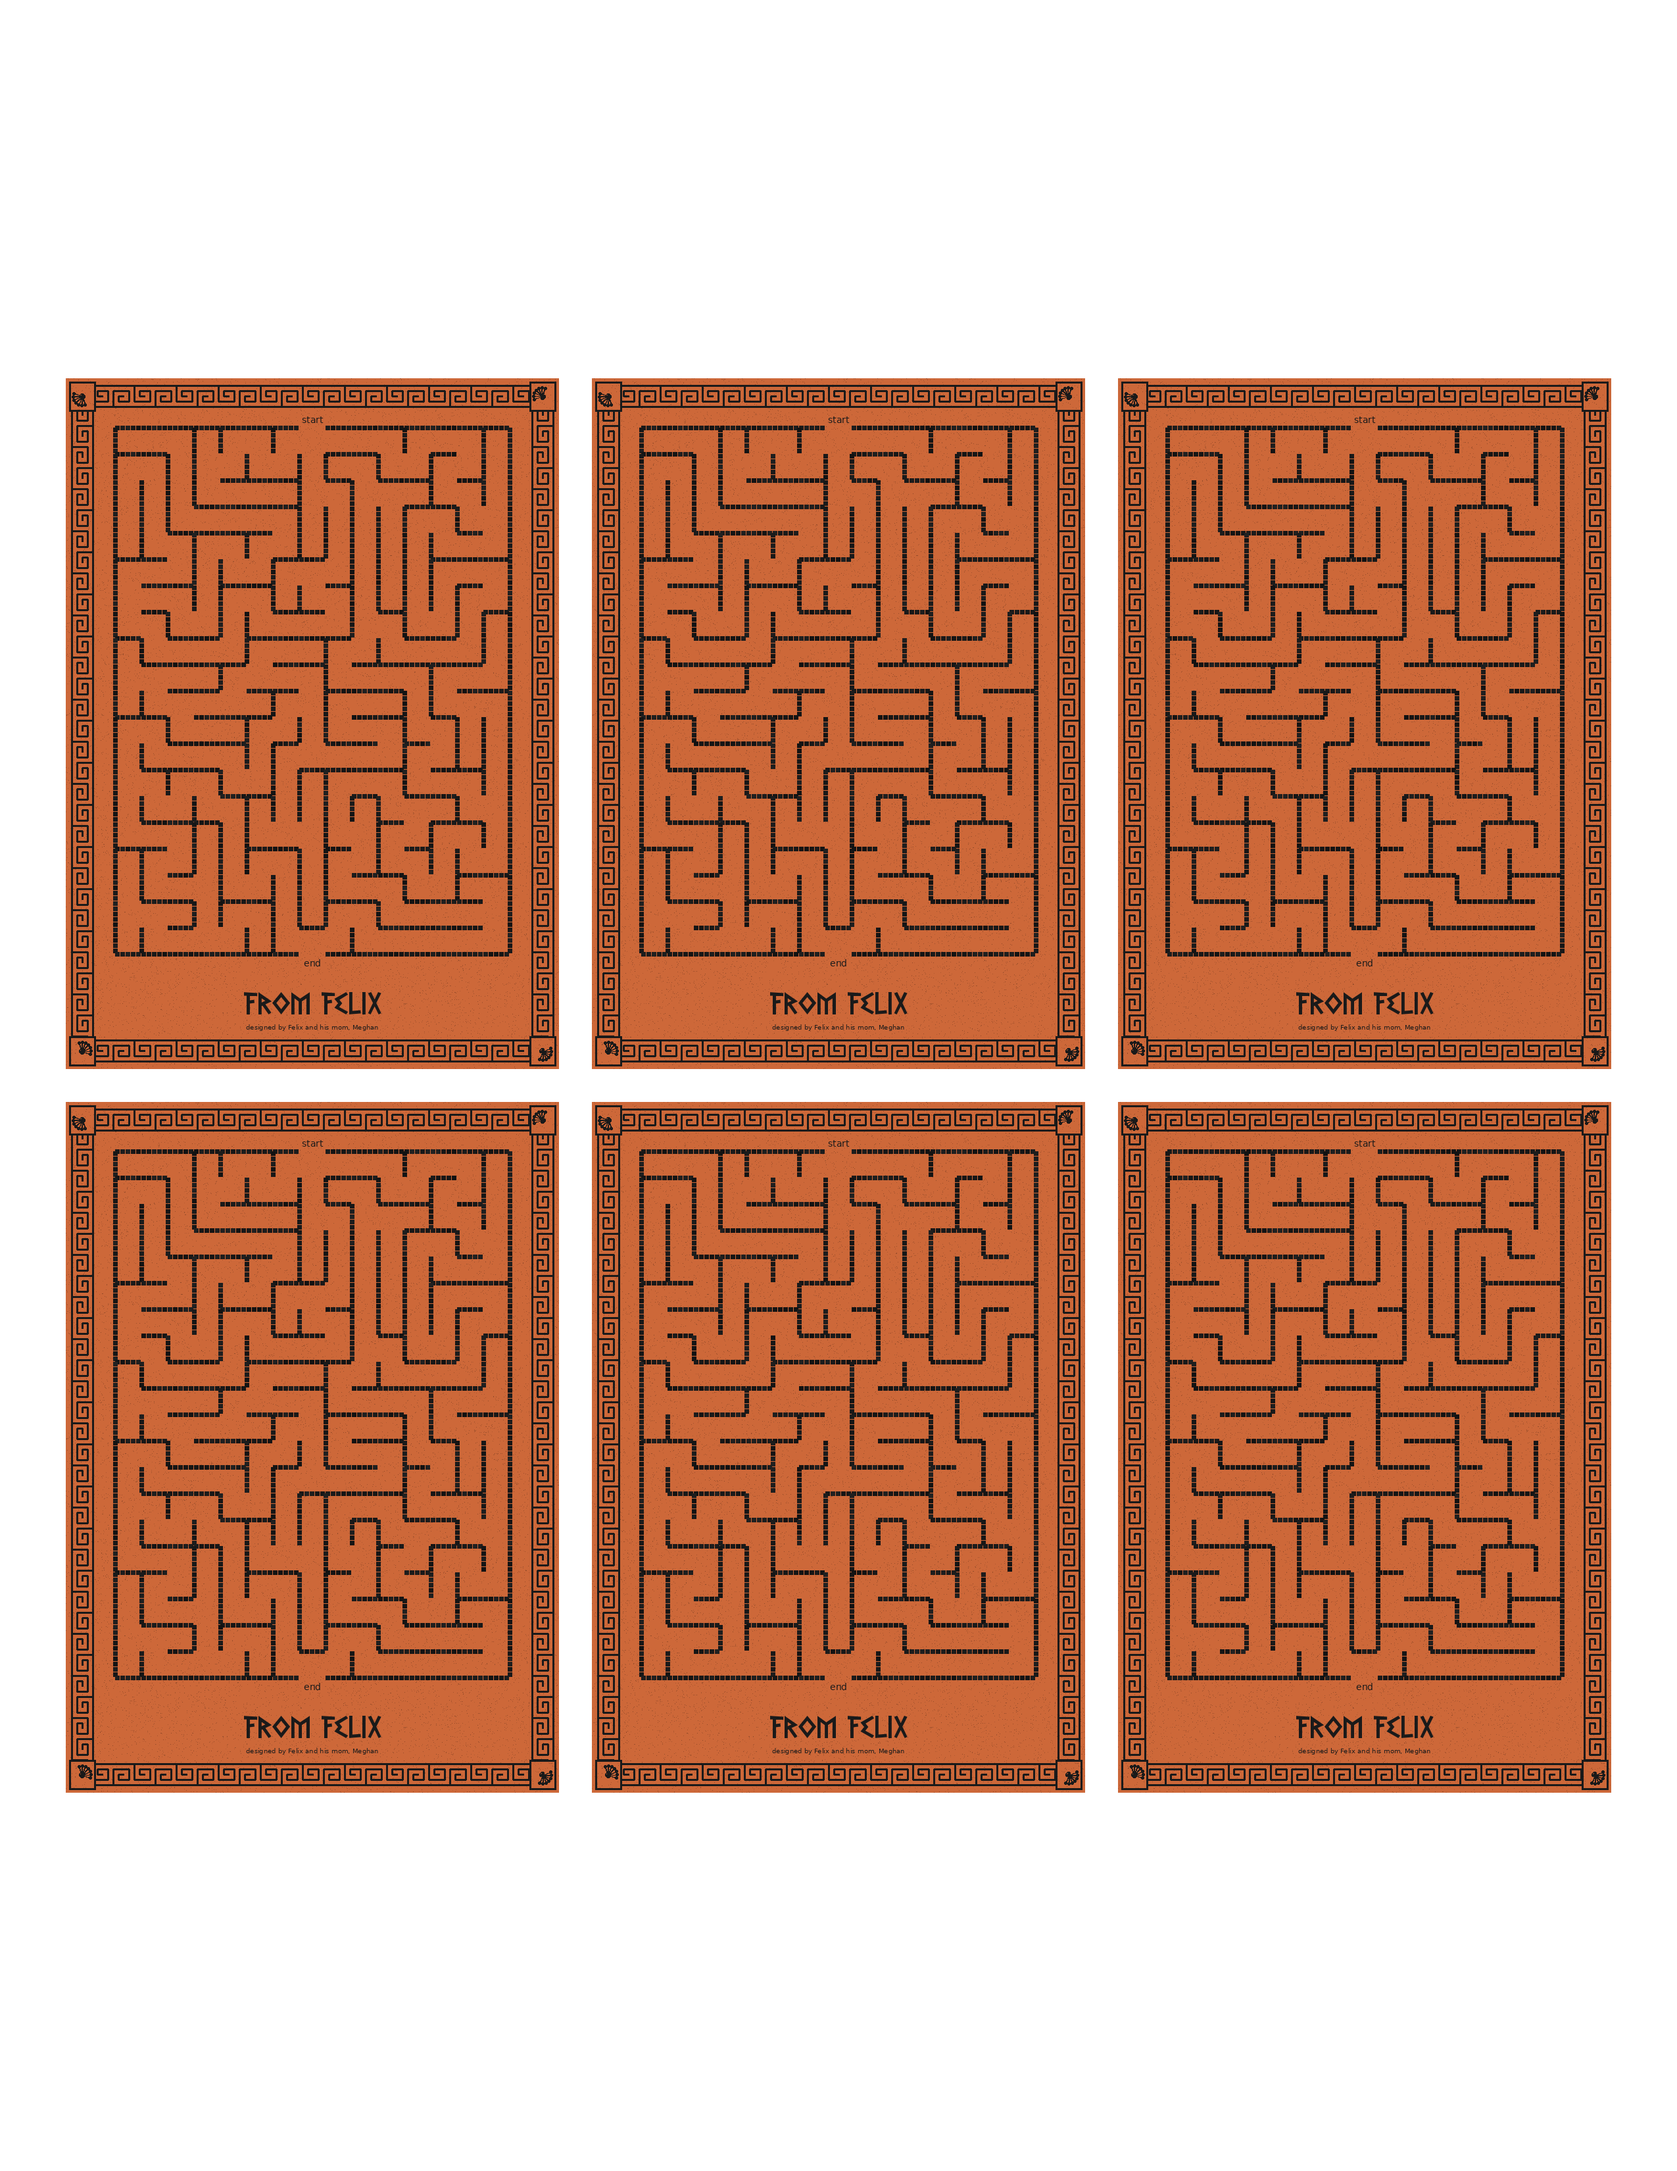
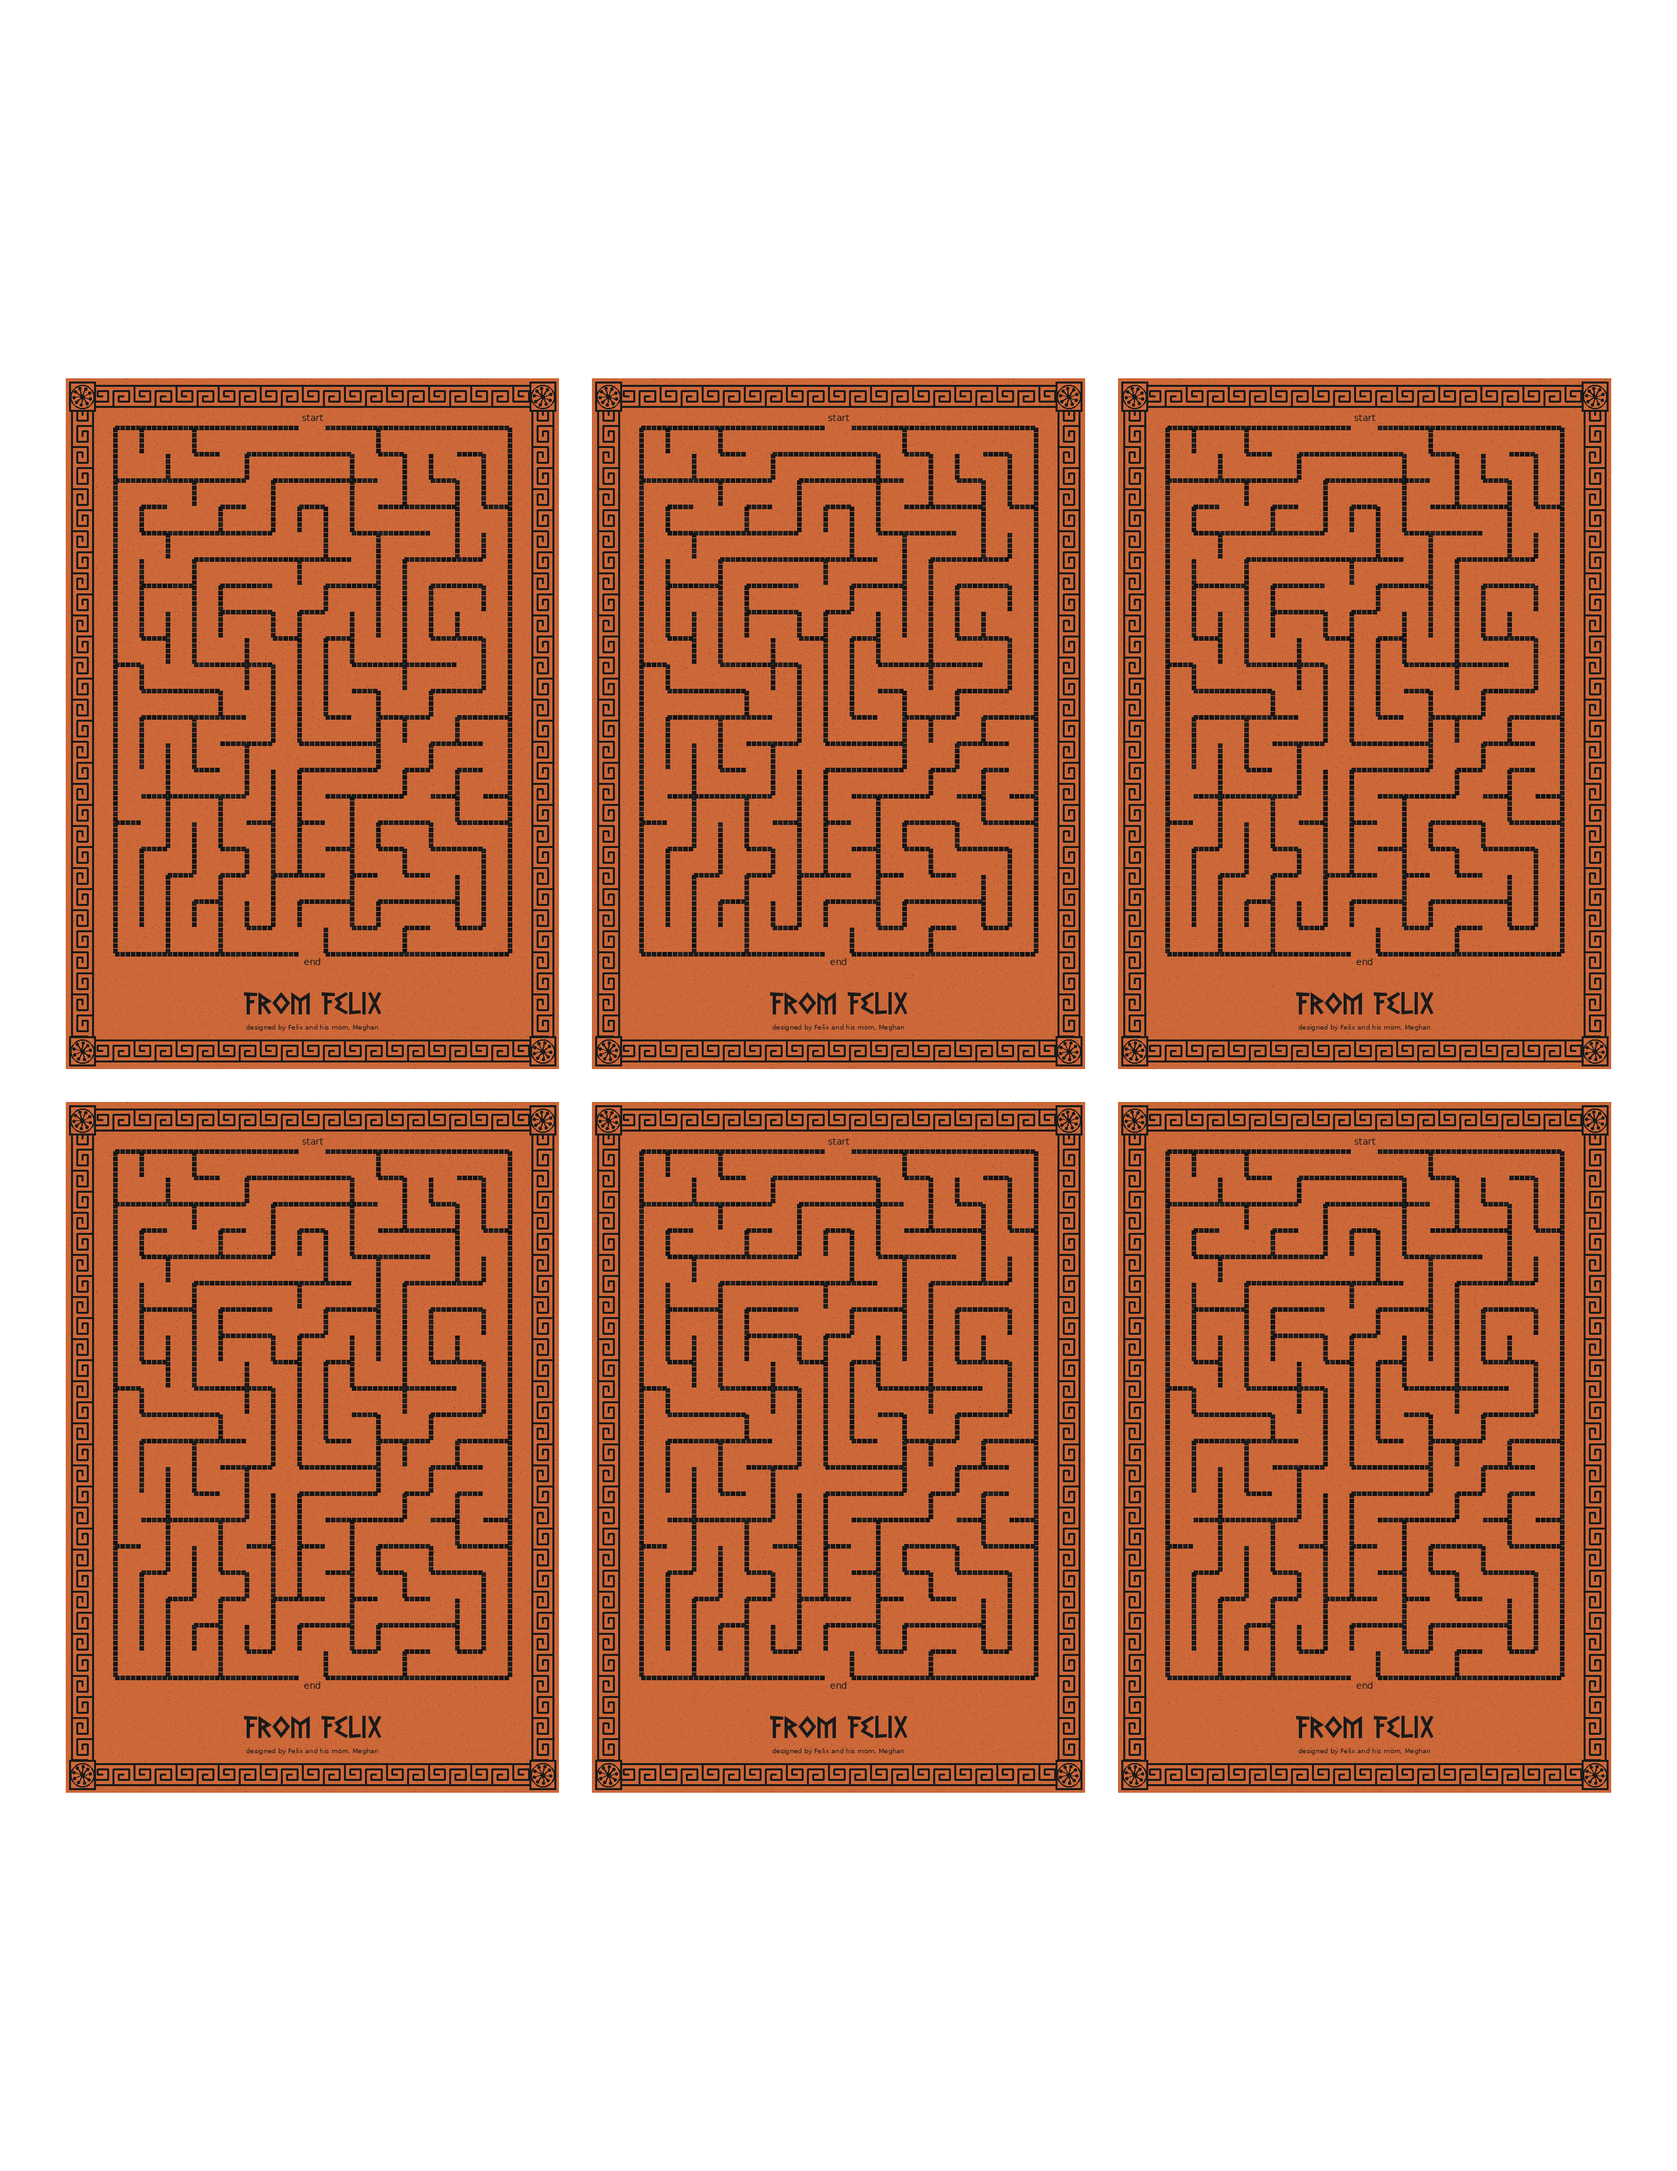
Make palmettes circular and fix label centering
- Changed palmettes from fan-shaped to full circular motifs with 9 petals
- Fixed start/end label centering using PIL anchor="mt" for precise alignment

diff --git a/src/greek_design_system.py b/src/greek_design_system.py
@@ -93,41 +93,33 @@ def draw_palmette(
     fg_color: str = None,
     bg_color: str = None
 ):
-    """Draw a Greek palmette (stylized fan of petals) at the given center.
+    """Draw a circular Greek palmette (stylized fan of petals) at the given center.
 
     Args:
         cx, cy: Center position
-        rotation: Angle in degrees (0=right, 90=down, 180=left, 270=up)
-                  Petals fan outward in this direction
-        size: Overall size of the palmette
+        rotation: Angle in degrees - direction the central petal points
+        size: Overall diameter of the circular palmette
     """
     import math
 
     fg = fg_color or PALETTE.black
+    bg = bg_color or PALETTE.terracotta
 
-    # Palmette has 7 petals in a fan arrangement
-    num_petals = 7
-    petal_length = size * 0.38
-    base_radius = size * 0.12
+    radius = size // 2
 
-    # Draw base arc opposite to petal direction
-    base_x1 = cx - base_radius
-    base_y1 = cy - base_radius
-    base_x2 = cx + base_radius
-    base_y2 = cy + base_radius
+    # Draw filled circle background
+    draw.ellipse([cx - radius, cy - radius, cx + radius, cy + radius],
+                 fill=bg, outline=fg, width=2)
 
-    # Arc is drawn on the opposite side of the petals
-    arc_start = rotation + 90
-    arc_end = rotation + 270
-    draw.arc([base_x1, base_y1, base_x2, base_y2], arc_start, arc_end, fill=fg, width=2)
+    # Palmette has 9 petals in a full circular arrangement
+    num_petals = 9
+    petal_length = radius * 0.7
 
-    # Draw petals in a fan pattern
-    spread_angle = 130  # Total spread in degrees
-    start_angle = rotation - spread_angle / 2
-    angle_step = spread_angle / (num_petals - 1)
+    # Draw petals radiating from center in all directions
+    angle_step = 360 / num_petals
 
     for i in range(num_petals):
-        petal_angle_deg = start_angle + i * angle_step
+        petal_angle_deg = rotation + i * angle_step
         petal_angle = math.radians(petal_angle_deg)
 
         # Calculate petal end point
@@ -594,24 +586,20 @@ def generate_greek_card_back(
         label_font = ImageFont.load_default()
 
     # The maze entrance/exit is at column (maze_cols // 2)
-    # Center of that cell is: maze_x + col * cell_size + cell_size / 2
+    # The opening spans one full cell width at that column
     entrance_col = maze_cols // 2
+    # Center of the opening = left edge of cell + half cell width
     opening_center_x = maze_x + entrance_col * cell_size + cell_size // 2
 
-    # "start" label above entrance - account for textbbox x-offset when centering
-    start_bbox = draw.textbbox((0, 0), "start", font=label_font)
-    start_width = start_bbox[2] - start_bbox[0]
-    start_x_offset = start_bbox[0]  # Text may not start at x=0
-    start_x = opening_center_x - start_width // 2 - start_x_offset
-    draw.text((start_x, maze_y - 20), "start", fill=PALETTE.black, font=label_font)
+    # "start" label above entrance - use anchor for precise centering
+    start_y = maze_y - 20
+    draw.text((opening_center_x, start_y), "start", fill=PALETTE.black,
+              font=label_font, anchor="mt")  # middle-top anchor
 
-    # "end" label below exit - account for textbbox x-offset when centering
-    exit_y = maze_y + maze_rows * cell_size
-    end_bbox = draw.textbbox((0, 0), "end", font=label_font)
-    end_width = end_bbox[2] - end_bbox[0]
-    end_x_offset = end_bbox[0]
-    end_x = opening_center_x - end_width // 2 - end_x_offset
-    draw.text((end_x, exit_y + 6), "end", fill=PALETTE.black, font=label_font)
+    # "end" label below exit - use anchor for precise centering
+    exit_y = maze_y + maze_rows * cell_size + 6
+    draw.text((opening_center_x, exit_y), "end", fill=PALETTE.black,
+              font=label_font, anchor="mt")  # middle-top anchor
 
     # Setup fonts
     base_dir = os.path.dirname(os.path.abspath(__file__))
